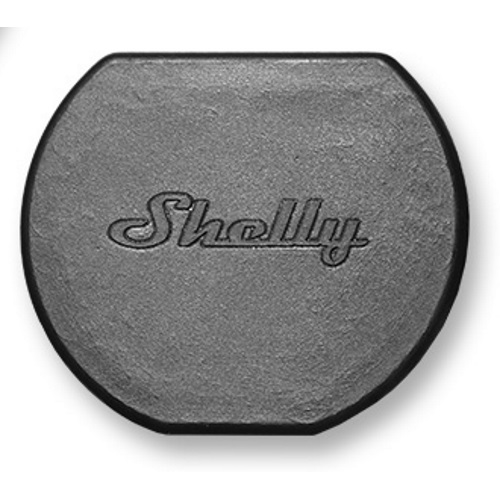
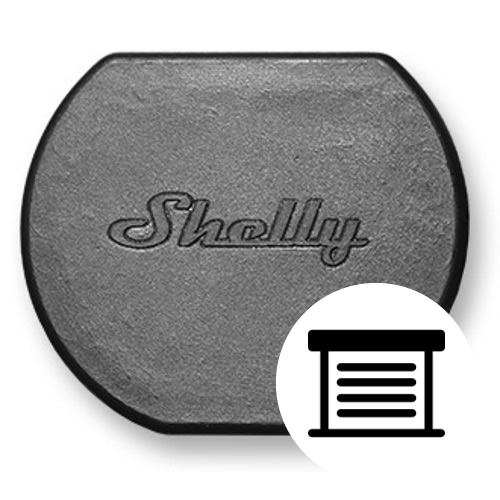
Release 1.2.0

Changed region(s): [[0.54, 0.54, 0.93, 0.93], [0.0, 0.03, 0.03, 0.09]]

diff --git a/drivers/shelly2-rollershutter/device.js b/drivers/shelly2-rollershutter/device.js
@@ -3,16 +3,12 @@
 const Homey = require('homey');
 const util = require('/lib/util.js');
 
-class Shelly1Device extends Homey.Device {
+class Shelly2RollerShutterDevice extends Homey.Device {
 
   onInit() {
-    new Homey.FlowCardTriggerDevice('relay0OnTrigger').register();
-    new Homey.FlowCardTriggerDevice('relay1OnTrigger').register();
-    new Homey.FlowCardTriggerDevice('relay0OffTrigger').register();
-    new Homey.FlowCardTriggerDevice('relay1OffTrigger').register();
 
-    this.registerCapabilityListener('onoff.relay0', this.onCapabilityOnoff0.bind(this));
-    this.registerCapabilityListener('onoff.relay1', this.onCapabilityOnoff1.bind(this));
+    this.registerCapabilityListener('windowcoverings_state.relay0', this.onCapabilityWindowcoveringsState0.bind(this));
+    this.registerCapabilityListener('windowcoverings_state.relay1', this.onCapabilityWindowcoveringsState1.bind(this));
 
     var interval = this.getSetting('polling') || 5;
 
@@ -24,21 +20,25 @@ class Shelly1Device extends Homey.Device {
   }
 
   // LISTENERS FOR UPDATING CAPABILITIES
-  onCapabilityOnoff0(value, opts, callback) {
-    if (value) {
-      util.sendCommand('/relay/0?turn=on', this.getSetting('address'), this.getSetting('username'), this.getSetting('password'));
-    } else {
-      util.sendCommand('/relay/0?turn=off', this.getSetting('address'), this.getSetting('username'), this.getSetting('password'));
+  onCapabilityWindowcoveringsState0(value, opts, callback) {
+    if ( value== 'idle') {
+      util.sendCommand('/rollers/0?go=stop', this.getSetting('address'), this.getSetting('username'), this.getSetting('password'));
+    } else if (value == 'up') {
+      util.sendCommand('/rollers/0?go=open', this.getSetting('address'), this.getSetting('username'), this.getSetting('password'));
+    } else if (value == 'down') {
+      util.sendCommand('/rollers/0?go=close', this.getSetting('address'), this.getSetting('username'), this.getSetting('password'));
     }
     callback(null, value);
   }
 
   // LISTENERS FOR UPDATING CAPABILITIES
-  onCapabilityOnoff1(value, opts, callback) {
-    if (value) {
-      util.sendCommand('/relay/1?turn=on', this.getSetting('address'), this.getSetting('username'), this.getSetting('password'));
-    } else {
-      util.sendCommand('/relay/1?turn=off', this.getSetting('address'), this.getSetting('username'), this.getSetting('password'));
+  onCapabilityWindowcoveringsState1(value, opts, callback) {
+    if ( value== 'idle') {
+      util.sendCommand('/rollers/1?go=stop', this.getSetting('address'), this.getSetting('username'), this.getSetting('password'));
+    } else if (value == 'up') {
+      util.sendCommand('/rollers/1?go=open', this.getSetting('address'), this.getSetting('username'), this.getSetting('password'));
+    } else if (value == 'down') {
+      util.sendCommand('/rollers/1?go=close', this.getSetting('address'), this.getSetting('username'), this.getSetting('password'));
     }
     callback(null, value);
   }
@@ -51,30 +51,30 @@ class Shelly1Device extends Homey.Device {
     this.pollingInterval = setInterval(() => {
       util.sendCommand('/status', this.getSetting('address'), this.getSetting('username'), this.getSetting('password'))
         .then(result => {
-          var state0 = result.relays[0].ison;
-          var state1 = result.relays[1].ison;
+          if ( result.rollers[0].state == 'stop' ) {
+            var state0 = 'idle';
+          } else if ( result.rollers[0].state == 'open' ) {
+            var state0 = 'up';
+          } else if ( result.rollers[0].state == 'close' ) {
+            var state0 = 'down';
+          }
+          if ( result.rollers[1].state == 'stop' ) {
+            var state1 = 'idle';
+          } else if ( result.rollers[1].state == 'open' ) {
+            var state1 = 'up';
+          } else if ( result.rollers[1].state == 'close' ) {
+            var state1 = 'down';
+          }
           var power = result.meters[0].power;
 
-          // capability onoff relay 0
-          if (state0 != this.getCapabilityValue('onoff.relay0')) {
-            this.setCapabilityValue('onoff.relay0', state0);
-
-            if (state0) {
-              Homey.ManagerFlow.getCard('trigger', 'relay0OnTrigger').trigger(this, {}, {})
-            } else {
-              Homey.ManagerFlow.getCard('trigger', 'relay0OffTrigger').trigger(this, {}, {})
-            }
+          // capability windowcoverings_state relay 0
+          if (state0 != this.getCapabilityValue('windowcoverings_state.relay0')) {
+            this.setCapabilityValue('windowcoverings_state.relay0', state0);
           }
 
-          // capability onoff relay 1
-          if (state1 != this.getCapabilityValue('onoff.relay1')) {
-            this.setCapabilityValue('onoff.relay1', state1);
-
-            if (state1) {
-              Homey.ManagerFlow.getCard('trigger', 'relay1OnTrigger').trigger(this, {}, {})
-            } else {
-              Homey.ManagerFlow.getCard('trigger', 'relay1OffTrigger').trigger(this, {}, {})
-            }
+          // capability windowcoverings_state relay 1
+          if (state1 != this.getCapabilityValue('windowcoverings_state.relay1')) {
+            this.setCapabilityValue('windowcoverings_state.relay1', state1);
           }
 
           // capability measure_power
@@ -110,4 +110,4 @@ class Shelly1Device extends Homey.Device {
 
 }
 
-module.exports = Shelly1Device;
+module.exports = Shelly2RollerShutterDevice;

diff --git a/app.js b/app.js
@@ -80,6 +80,13 @@ class ShellyApp extends Homey.App {
         return Promise.resolve(true);
       })
 
+    new Homey.FlowCardAction('moveRollerShutter')
+      .register()
+      .registerRunListener((args, state) => {
+        util.sendCommand('/rollers/'+ args.rollershutter +'?go='+ args.direction +'&duration='+ args.duration +'', args.device.getSetting('address'), args.device.getSetting('username'), args.device.getSetting('password'));
+        return Promise.resolve(true);
+      })
+
   }
 
 }

diff --git a/drivers/shelly2-rollershutter/driver.js b/drivers/shelly2-rollershutter/driver.js
@@ -3,7 +3,7 @@
 const Homey = require('homey');
 const util = require('/lib/util.js');
 
-class Shelly1Driver extends Homey.Driver {
+class Shelly2RollerShutterDriver extends Homey.Driver {
 
   onPair(socket) {
     socket.on('testConnection', function(data, callback) {
@@ -19,4 +19,4 @@ class Shelly1Driver extends Homey.Driver {
 
 }
 
-module.exports = Shelly1Driver;
+module.exports = Shelly2RollerShutterDriver;

diff --git a/drivers/shelly2/device.js b/drivers/shelly2/device.js
@@ -3,7 +3,7 @@
 const Homey = require('homey');
 const util = require('/lib/util.js');
 
-class Shelly1Device extends Homey.Device {
+class Shelly2Device extends Homey.Device {
 
   onInit() {
     new Homey.FlowCardTriggerDevice('relay0OnTrigger').register();
@@ -110,4 +110,4 @@ class Shelly1Device extends Homey.Device {
 
 }
 
-module.exports = Shelly1Device;
+module.exports = Shelly2Device;

diff --git a/drivers/shelly2/driver.js b/drivers/shelly2/driver.js
@@ -3,7 +3,7 @@
 const Homey = require('homey');
 const util = require('/lib/util.js');
 
-class Shelly1Driver extends Homey.Driver {
+class Shelly2Driver extends Homey.Driver {
 
   onPair(socket) {
     socket.on('testConnection', function(data, callback) {
@@ -19,4 +19,4 @@ class Shelly1Driver extends Homey.Driver {
 
 }
 
-module.exports = Shelly1Driver;
+module.exports = Shelly2Driver;

diff --git a/drivers/shelly2-rollershutter/pair/start.html b/drivers/shelly2-rollershutter/pair/start.html
@@ -77,7 +77,7 @@ $(function() {
 			};
 
 			Homey.addDevice({
-				name	 : 'Shelly 2',
+				name	 : 'Shelly 2 Roller Shutter',
 				data 	 : device_data,
 				settings : settings
 			}, function(error, result ) {

diff --git a/drivers/shelly2/pair/start.html b/drivers/shelly2/pair/start.html
@@ -77,7 +77,7 @@ $(function() {
 			};
 
 			Homey.addDevice({
-				name	 : 'Shelly 2',
+				name	 : 'Shelly 2 Relay',
 				data 	 : device_data,
 				settings : settings
 			}, function(error, result ) {

diff --git a/APPSTORE.md b/APPSTORE.md
@@ -14,3 +14,4 @@ For support please use the official support topic on the forum [here](https://co
 ## Changelog
 ### 2018-11-xx - v1.2.0
 * NEW: add support for Shelly2 devices that are configured as roller shutter device
+* NEW: added an action card for controling roller shutters for a specified duration
